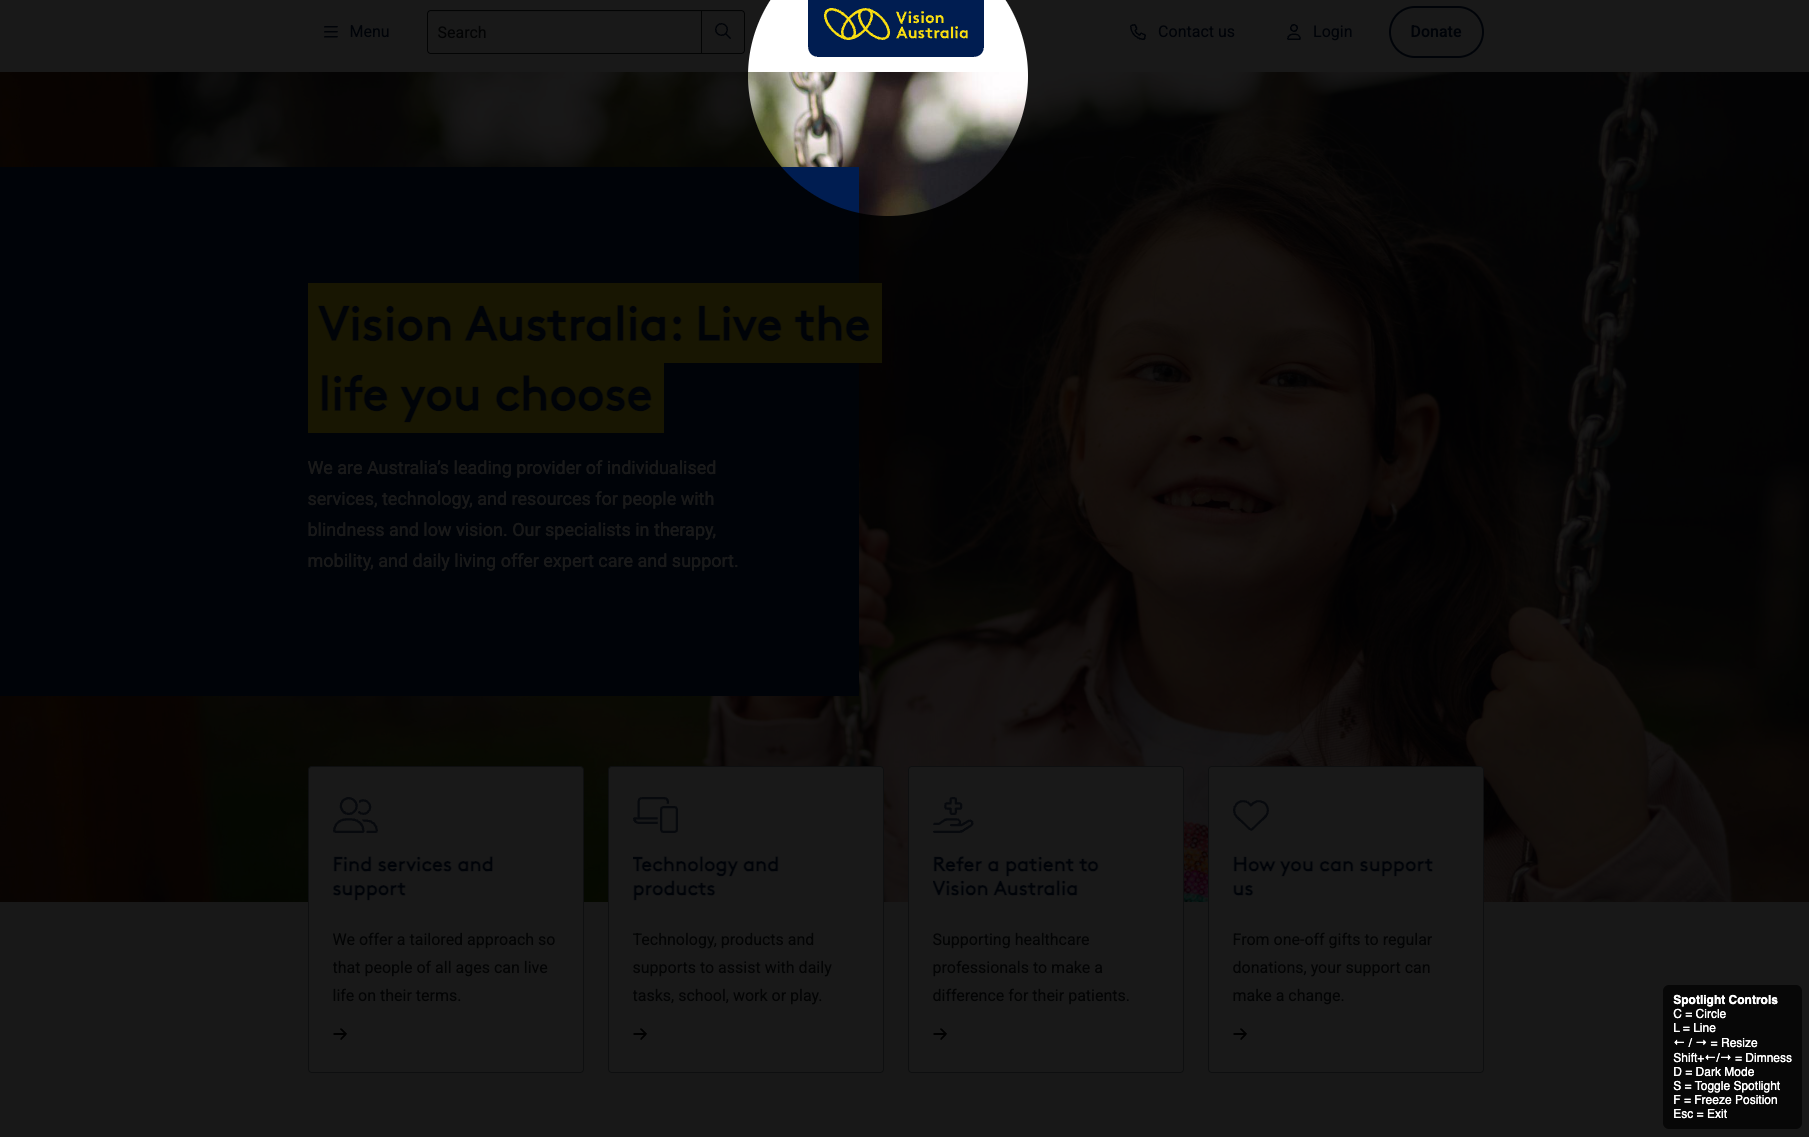
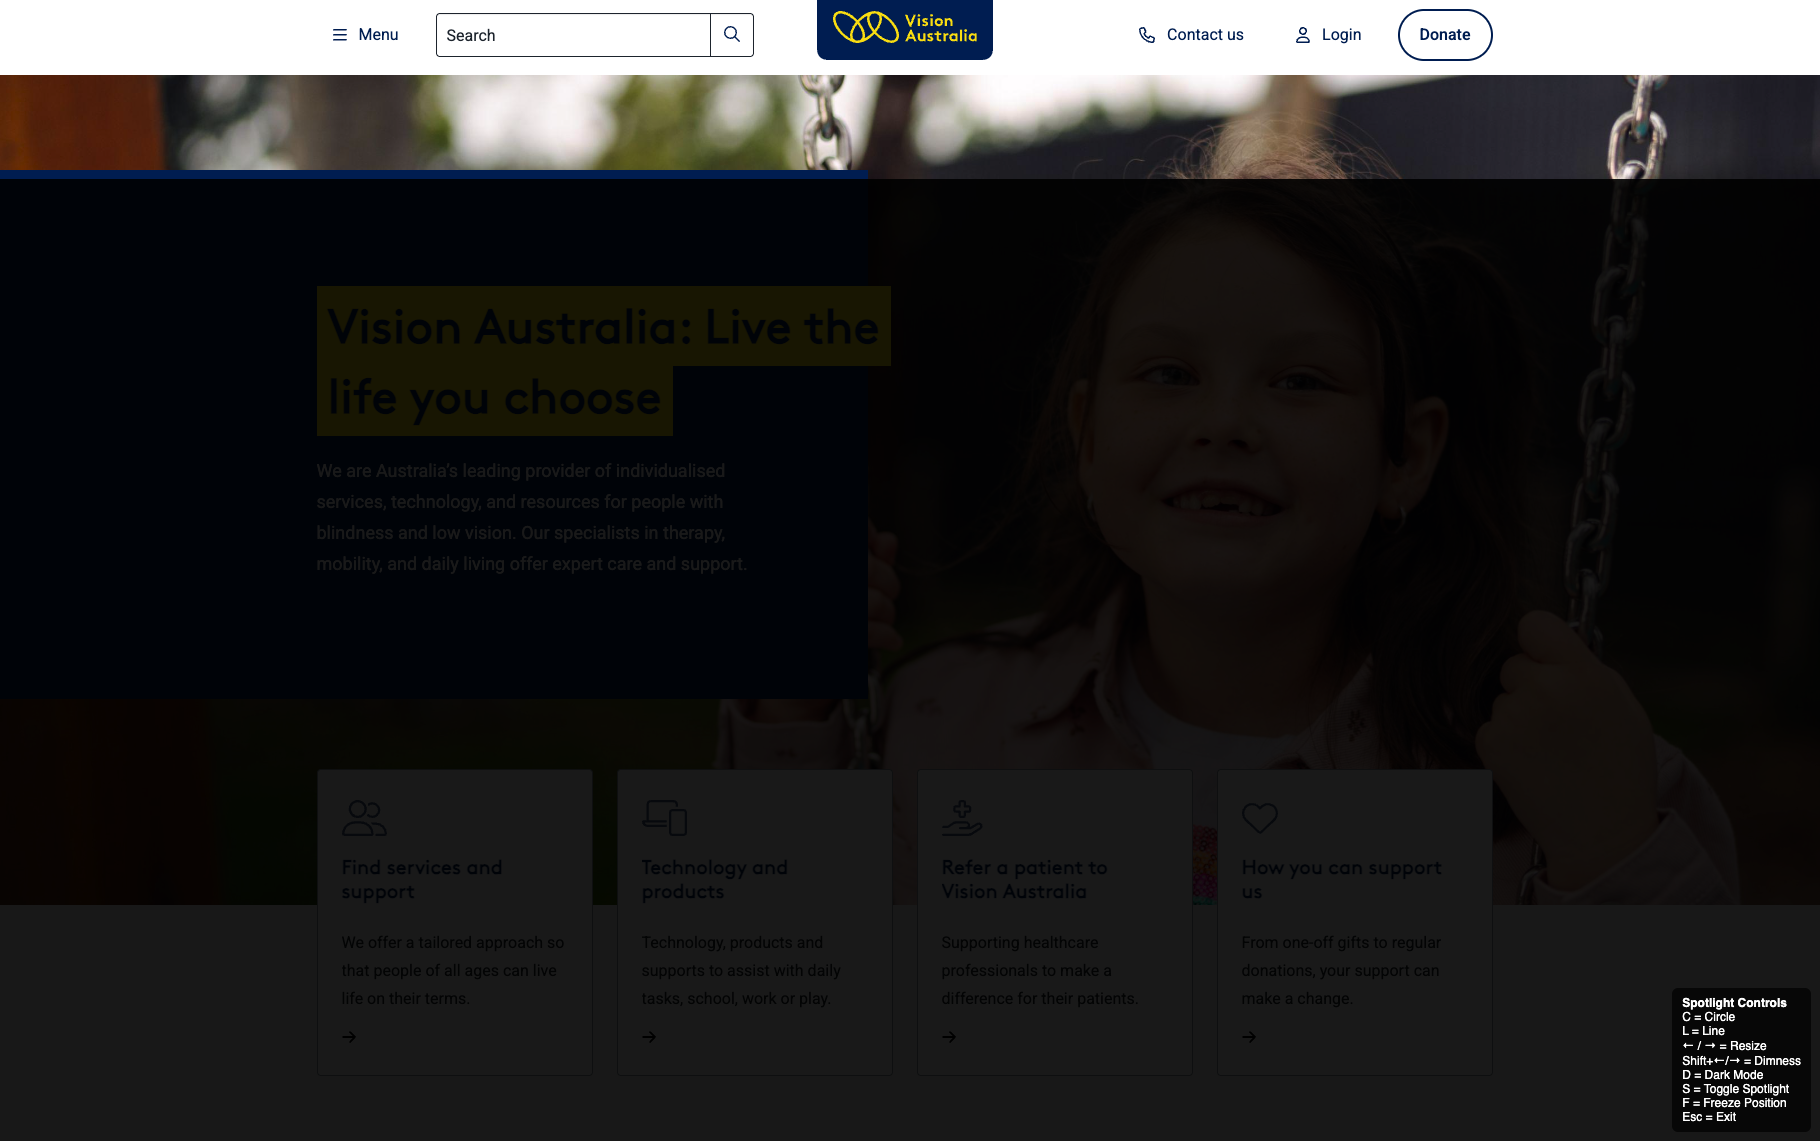
Add files via upload

Changed region(s): [[0.0, 0.0, 1.0, 0.1847], [0.9287, 0.8619, 0.9906, 0.985]]

diff --git a/README.md b/README.md
@@ -1,0 +1,215 @@
+# Spotlight Focus Tool
+
+Screen mask, reading ruler, and spotlight bookmarklet for distraction-free reading on any webpage.
+
+A lightweight accessibility bookmarklet for reducing visual clutter with a movable spotlight, reading line, and dimmed screen mask overlay. Works from the bookmarks bar with no extension, no account, and no install package.
+
+Useful for ADHD, dyslexia, autism, neurodivergent browsing, sensory processing differences, visual overstimulation, reading fatigue, focus support, study support, and accessibility use cases.
+
+[**Open the Spotlight installer**](https://earthonicus.github.io/weblight/weblight.html)
+
+Then drag the **Spotlight** button to your bookmarks bar and click it on any webpage.
+
+## Screenshots
+
+### Installer page
+
+![Spotlight Focus Tool installer page](spotlight-installer.png)
+
+### Spotlight examples
+
+<table>
+  <tr>
+    <td align="center"><img src="spotlight-circle-digital-service-standard.png" alt="Spotlight circle mode on digital.gov.au Digital Service Standard page" width="220"><br><sub>digital.gov.au</sub></td>
+    <td align="center"><img src="spotlight-circle-good-things.png" alt="Spotlight circle mode on Good Things homepage" width="220"><br><sub>Good Things</sub></td>
+  </tr>
+  <tr>
+    <td align="center"><img src="spotlight-circle-vision-australia.png" alt="Spotlight circle mode on Vision Australia homepage" width="220"><br><sub>Vision Australia</sub></td>
+    <td align="center"><img src="spotlight-circle-visitnsw.png" alt="Spotlight circle mode on Visit NSW page" width="220"><br><sub>Visit NSW</sub></td>
+  </tr>
+</table>
+
+### Reading line examples
+
+<table>
+  <tr>
+    <td align="center"><img src="spotlight-digital-service-standard.png" alt="Spotlight reading line mode on digital.gov.au Digital Service Standard page" width="220"><br><sub>digital.gov.au</sub></td>
+    <td align="center"><img src="spotlight-good-things.png" alt="Spotlight reading line mode on Good Things homepage" width="220"><br><sub>Good Things</sub></td>
+  </tr>
+  <tr>
+    <td align="center"><img src="spotlight-vision-australia.png" alt="Spotlight reading line mode on Vision Australia homepage" width="220"><br><sub>Vision Australia</sub></td>
+    <td align="center"><img src="spotlight-line-visitnsw.png" alt="Spotlight reading line mode on Visit NSW page" width="220"><br><sub>Visit NSW</sub></td>
+  </tr>
+</table>
+
+## What it does
+
+Spotlight Focus Tool adds a movable visual overlay to the current webpage so you can focus on either:
+
+- a circular spotlight around the cursor
+- a horizontal reading line across the page
+
+The current version also supports:
+
+- resizing the spotlight or reading line
+- adjusting the background dimness
+- toggling a simple dark mode
+- turning the overlay on or off without exiting
+- freezing the spotlight position
+- instant exit with the Escape key
+- an on-screen help panel showing controls
+
+## Why this exists
+
+Many websites are visually noisy. Ads, banners, sidebars, popups, animations, and dense layouts can make reading and concentration harder than they need to be.
+
+Spotlight Focus Tool provides a fast, lightweight way to create a narrower visual focus on top of any webpage without installing a browser extension or signing up for anything.
+
+## Why this project is different
+
+Many similar tools are packaged as full browser extensions.
+
+Spotlight Focus Tool is intentionally simple:
+
+- bookmarklet-based
+- no account required
+- no install package required
+- easy to try in seconds
+- easy to fork and modify
+- works directly on top of existing webpages
+
+This makes it useful for quick accessibility support, personal experimentation, demonstrations, and lightweight distraction reduction.
+
+## Features
+
+- Bookmarklet-based focus tool
+- Screen mask overlay
+- Circle spotlight mode
+- Line reading ruler mode
+- Adjustable spotlight size
+- Adjustable line height
+- Adjustable background dimness
+- Toggleable dark mode
+- Freeze position mode
+- Toggle overlay on or off
+- Keyboard-driven controls
+- On-screen help box
+- Easy to share and fork
+
+## Installation
+
+### Option 1: Use the installer page
+
+[**Open the Spotlight installer**](https://earthonicus.github.io/weblight/weblight.html)
+
+Then:
+
+1. Drag the **Spotlight** button to your bookmarks bar
+2. Open any webpage
+3. Click the bookmarklet to activate the tool
+
+## Controls
+
+- **Mouse** → move the spotlight
+- **C** → switch to circle mode
+- **L** → switch to line mode
+- **Left / Right Arrow** → resize spotlight or line height
+- **Shift + Left / Right Arrow** → decrease or increase background dimness
+- **D** → toggle dark mode
+- **S** → toggle spotlight on or off
+- **F** → freeze or unfreeze spotlight position
+- **Esc** → exit and remove the tool from the page
+
+## How it works
+
+When activated, the bookmarklet injects a lightweight overlay into the current webpage.
+
+In circle mode, the spotlight follows the cursor. In line mode, the tool creates a horizontal reading band that tracks vertical cursor position. The rest of the page is dimmed while the focused area remains visible. A simple dark-style override can also be toggled for a darker reading environment.
+
+## Who it may help
+
+This project may be useful for people who want support with:
+
+- ADHD
+- dyslexia
+- autism
+- neurodivergent browsing
+- sensory processing differences
+- visual overstimulation
+- reading fatigue
+- focus and concentration
+- accessibility support
+- study support
+- deep reading on cluttered websites
+
+This is not a medical device and does not make therapeutic claims. It is a simple visual focus aid that some people may find helpful.
+
+## Use cases
+
+- reading articles with less distraction
+- following text line by line
+- reducing visual overwhelm on busy websites
+- supporting study sessions
+- keeping attention on one part of the screen
+- demonstrating accessibility ideas quickly via a bookmarklet
+
+## Privacy
+
+Spotlight Focus Tool runs locally in the browser as a bookmarklet.
+
+It does not require an account, backend service, or cloud connection.
+
+## Current limitations
+
+- best suited to desktop browser use
+- requires access to the bookmarks bar
+- some webpages with unusual layouts or browser restrictions may behave differently
+- the dark mode is intentionally simple and may not perfectly restyle every site
+
+## Project goals
+
+- keep it simple
+- keep it lightweight
+- make it easy for anyone to try
+- support accessibility and neurodivergent-friendly browsing
+- encourage community improvements
+
+## Roadmap
+
+Possible future improvements:
+
+- adjustable colour overlays
+- more reading ruler variations
+- saved settings
+- better touch support
+- improved mobile behaviour
+- accessibility presets
+- high contrast themes
+- browser extension version
+
+## Contributing
+
+Contributions, improvements, and accessibility feedback are welcome.
+
+Especially helpful areas include:
+
+- accessibility testing
+- neurodivergent user feedback
+- browser compatibility fixes
+- UI improvements
+- better keyboard support
+- mobile and touch support
+- extension packaging
+
+## Similar tools
+
+Other free tools in this space include **Screen Mask**, **Reading Ruler / ReadingLine**, **FocusFlow**, **Helperbird**, and **Focus Ex**. Most are browser extensions rather than lightweight bookmarklets.
+
+## Support
+
+If you find this useful, consider:
+
+- starring the repo
+- sharing it with accessibility communities
+- suggesting improvements
+- opening issues for bugs or ideas
